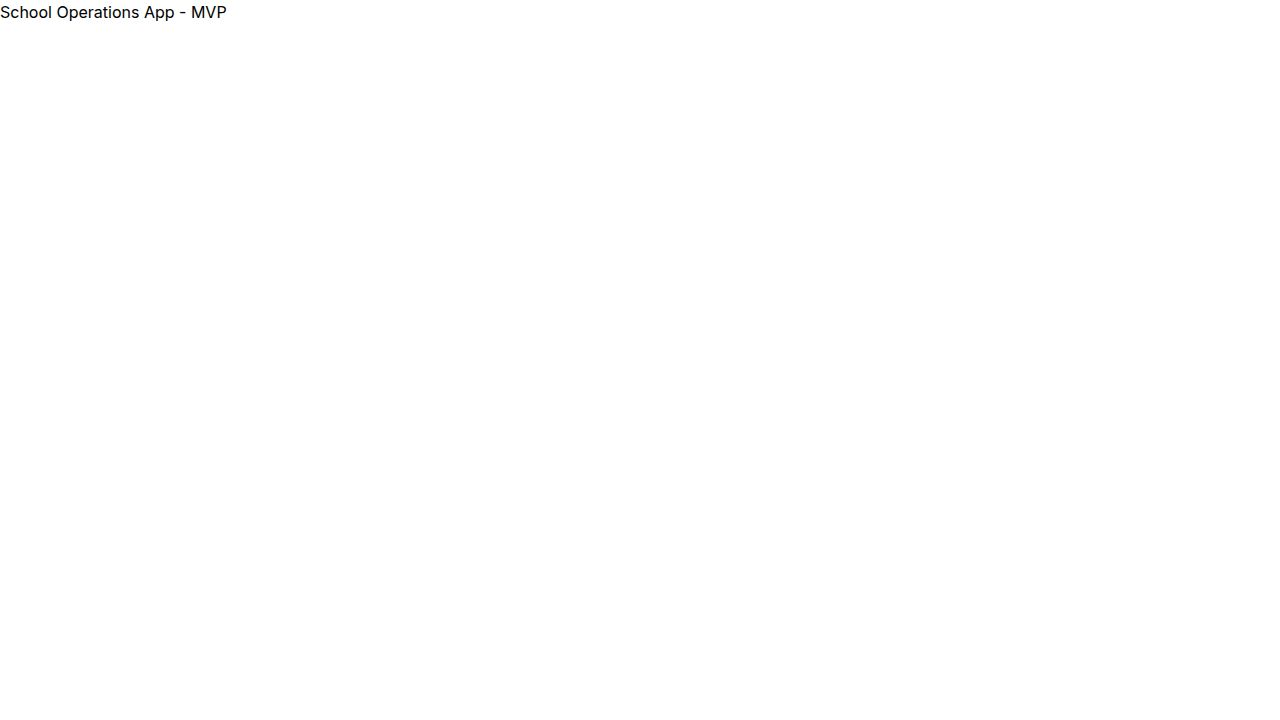
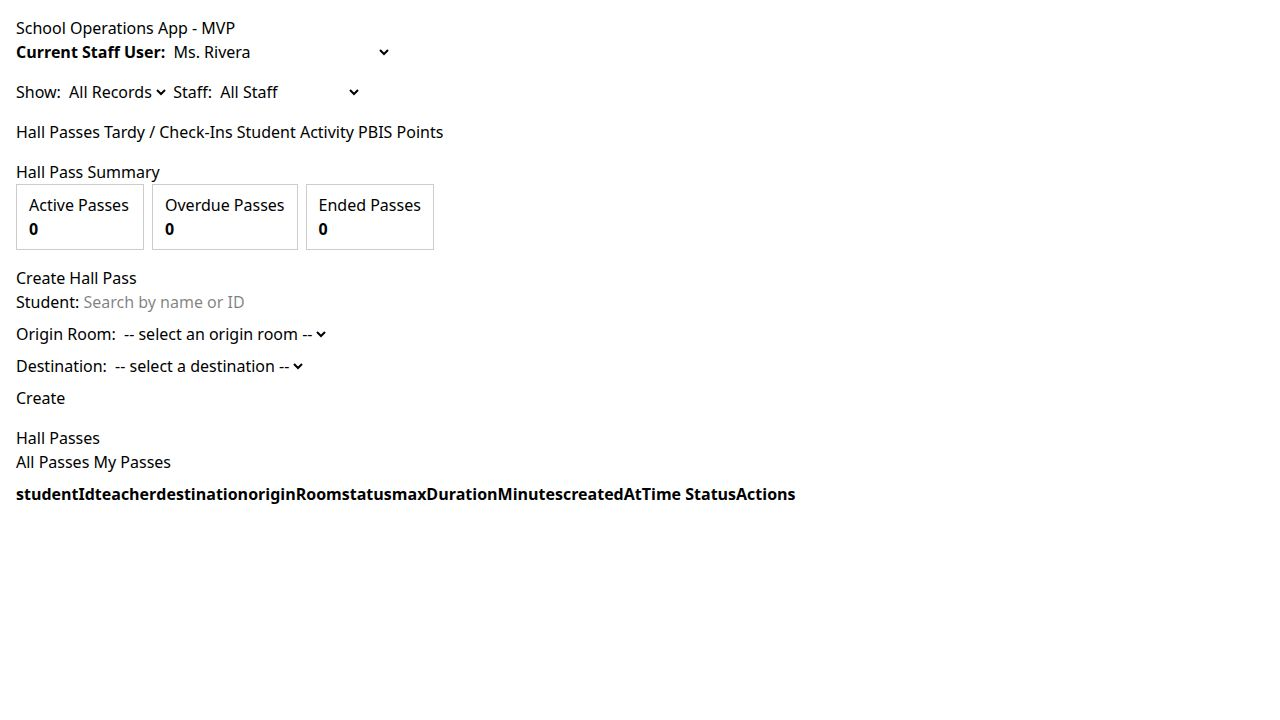
Add tabbed navigation to student activity view for better organization
Refactors the student activity view to implement tabbed navigation, allowing users to switch between different sections such as Summary, Hall Passes, Tardy Logs, PBIS, Support Notes, and Contact Information. This involves adding state management for the active tab and conditionally rendering content based on the selected tab.

Replit-Commit-Author: Agent
Replit-Commit-Session-Id: ac0427e3-32db-4712-8f92-32ec87c78f50
Replit-Commit-Checkpoint-Type: full_checkpoint
Replit-Commit-Event-Id: b345d91a-dc80-4704-b60b-cc76bff70190
Replit-Commit-Screenshot-Url: https://storage.googleapis.com/screenshot-production-us-central1/25380496-4800-4de6-a9e2-85c9fc2854df/ac0427e3-32db-4712-8f92-32ec87c78f50/wb4rm9j
Replit-Helium-Checkpoint-Created: true

diff --git a/artifacts/client/src/App.tsx b/artifacts/client/src/App.tsx
@@ -150,6 +150,9 @@ function App() {
   >("hallPasses");
   const [activityStudentId, setActivityStudentId] = useState("");
   const [activityStudentSearch, setActivityStudentSearch] = useState("");
+  const [studentTab, setStudentTab] = useState<
+    "summary" | "hallPasses" | "tardy" | "pbis" | "supportNotes" | "contact"
+  >("summary");
   const [emailStatus, setEmailStatus] = useState("");
   const [emailMessageType, setEmailMessageType] = useState<
     "positive" | "pbis" | "attendance" | "checkInOut"
@@ -1084,7 +1087,30 @@ function App() {
 
           {activityStudentId && (
             <>
-              {(() => {
+              <div style={{ marginBottom: "1rem" }}>
+                {(
+                  [
+                    ["summary", "Summary"],
+                    ["hallPasses", "Hall Passes"],
+                    ["tardy", "Tardy / Support Logs"],
+                    ["pbis", "PBIS"],
+                    ["supportNotes", "Support Notes"],
+                    ["contact", "Contact / Communication"],
+                  ] as const
+                ).map(([key, label]) => (
+                  <button
+                    key={key}
+                    type="button"
+                    onClick={() => setStudentTab(key)}
+                    disabled={studentTab === key}
+                    style={{ marginRight: "0.25rem" }}
+                  >
+                    {label}
+                  </button>
+                ))}
+              </div>
+
+              {studentTab === "summary" && (() => {
                 const student = students.find(
                   (s) => s.studentId === activityStudentId,
                 );
@@ -1146,7 +1172,7 @@ function App() {
                 );
               })()}
 
-              {(() => {
+              {studentTab === "contact" && (() => {
                 const s = students.find(
                   (st) => st.studentId === activityStudentId,
                 );
@@ -1181,6 +1207,7 @@ function App() {
                 );
               })()}
 
+              {studentTab === "hallPasses" && (<>
               <h3>Hall Passes</h3>
               <table
                 border={1}
@@ -1217,7 +1244,9 @@ function App() {
                     ))}
                 </tbody>
               </table>
+              </>)}
 
+              {studentTab === "tardy" && (<>
               <h3>Tardy / Support Logs</h3>
               <table
                 border={1}
@@ -1261,8 +1290,9 @@ function App() {
                     ))}
                 </tbody>
               </table>
+              </>)}
 
-              {(() => {
+              {studentTab === "summary" && (() => {
                 const completedPasses = hallPasses
                   .filter((p) => p.studentId === activityStudentId)
                   .filter((p) => p.status !== "active" && p.endedAt)
@@ -1292,7 +1322,7 @@ function App() {
                 );
               })()}
 
-              {(() => {
+              {studentTab === "contact" && (() => {
                 const student = students.find(
                   (s) => s.studentId === activityStudentId,
                 );
@@ -1465,6 +1495,7 @@ function App() {
                 );
               })()}
 
+              {studentTab === "pbis" && (<>
               <h3>PBIS Summary</h3>
               {(() => {
                 const studentPbis = pbisEntries.filter(
@@ -1481,7 +1512,9 @@ function App() {
                   </div>
                 );
               })()}
+              </>)}
 
+              {studentTab === "supportNotes" && (<>
               <h3>Support Notes</h3>
               <form
                 onSubmit={handleSupportNoteSubmit}
@@ -1543,7 +1576,9 @@ function App() {
                     </li>
                   ))}
               </ul>
+              </>)}
 
+              {studentTab === "pbis" && (<>
               <h3>PBIS Entries</h3>
               <ul>
                 {pbisEntries
@@ -1565,6 +1600,7 @@ function App() {
                     </li>
                   ))}
               </ul>
+              </>)}
             </>
           )}
         </section>